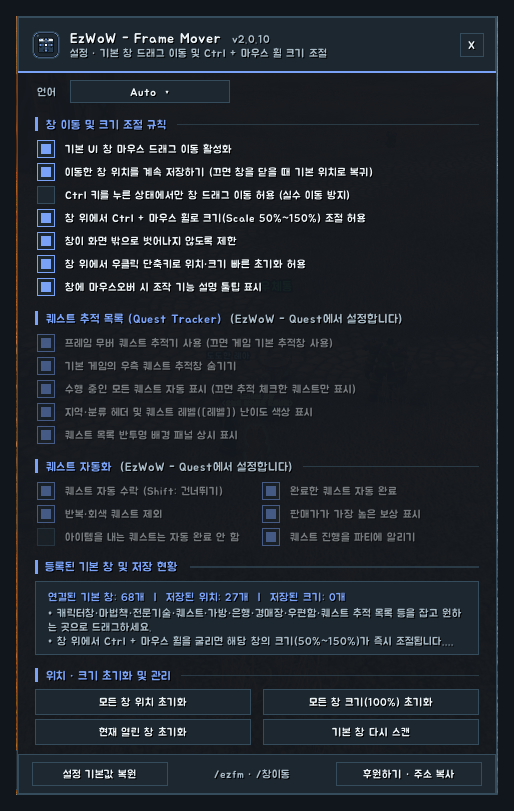
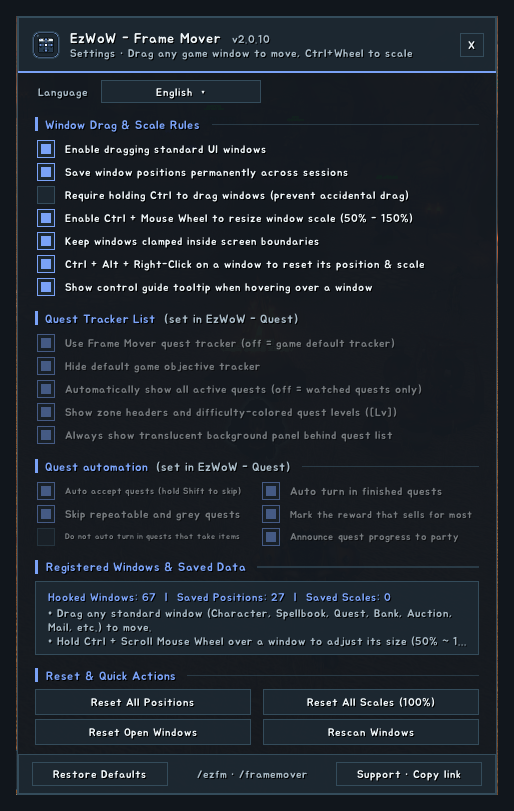
영어 설명용 게임 화면 추가

diff --git a/docs/curseforge_description.md b/docs/curseforge_description.md
@@ -11,7 +11,7 @@ Drag the fixed default windows of WoW Forever anywhere, keep them where you put 
 
 ![Settings window](https://raw.githubusercontent.com/qqhrqqhr2/EzWoW-FrameMover/master/docs/images/ui_en.png)
 
-*In-game screenshots (WoW Forever, Korean client). Character and player names and chat text are blurred.*
+*In-game screenshots with the addon set to English. The game client is Korean, so game text such as zone, item and spell names stays Korean. Character and player names and chat text are blurred.*
 
 ## Features
 

diff --git a/README.md b/README.md
@@ -150,7 +150,7 @@ Frame Mover lets you **drag Blizzard's fixed windows anywhere** and remembers wh
 
 ![Settings window](docs/images/ui_en.png)
 
-> In-game screenshots (WoW Forever, Korean client). Character and player names and chat text are blurred.
+> In-game screenshots with the addon set to English. The game client is Korean, so game text such as zone, item and spell names stays Korean. Character and player names and chat text are blurred.
 
 ### Installation
 
